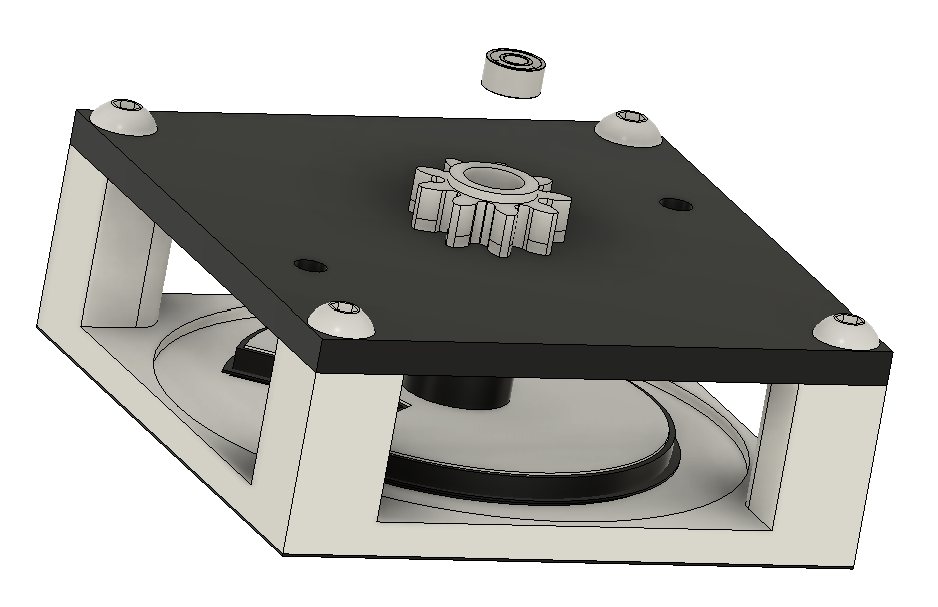
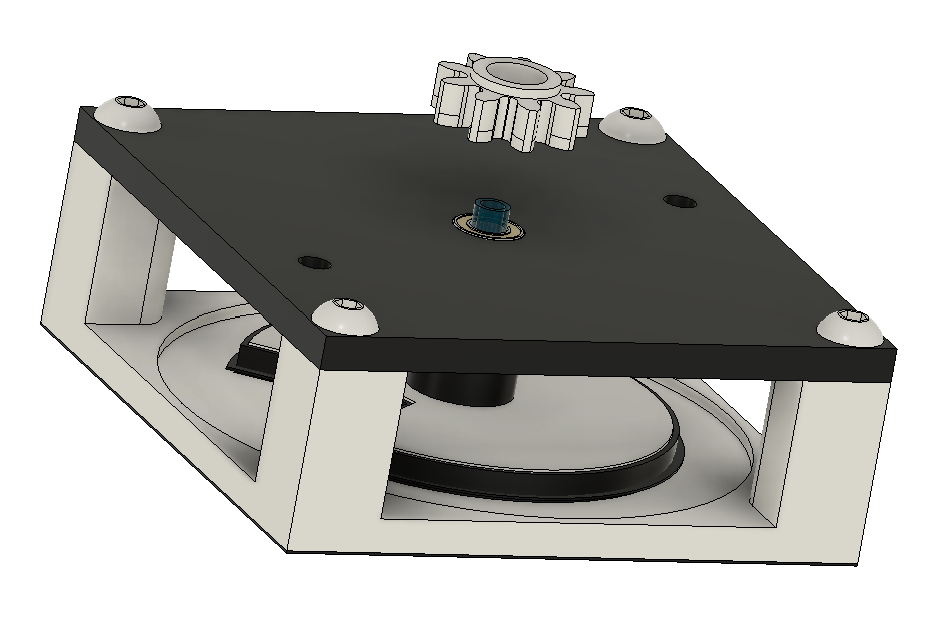
Duct Pressure Gauge: MakerWorld link, the filament colours, the Smooth plate and the LED strip step

Changed region(s): [[0.0311, 0.0593, 0.9646, 0.9489], [0.3112, 0.4152, 0.3734, 0.4448]]

diff --git a/docs/models/33-duct-pressure-gauge.md b/docs/models/33-duct-pressure-gauge.md
@@ -1,5 +1,7 @@
 # 33. Duct Pressure Gauge
 
+[📦 Download the printable model on MakerWorld](https://makerworld.com/en/models/3330434-boeing-737-overhead-duct-pressure-gauge)
+
 [← Back to model list](README.md)
 
 ---
@@ -55,13 +57,15 @@ The dial itself is lit separately, by two LED strips inside the housing - see [B
 | 1× | inner | White | the round dial behind the face, with the second UV-printed scale on it |
 | 1× | shielding outer+inner | Black | the ring wall between the two printed faces |
 | 1× | backlight | Black | the rear plate; carries the second MR63ZZ bearing |
-| 1× | gears cover | White | the bracket for the two servos |
+| 1× | gears cover | Black | the bracket for the two servos |
 | 1× | pipe gear (3 mm) | Transparent | 9 teeth, on the acrylic pipe; in the light path of the needle LED |
 | 1× | rod gear (2 mm) | Transparent | 9 teeth, on the acrylic rod; in the light path of the needle LED |
-| 2× | servo gear | White | 14 teeth, on the servo shafts |
-| 1× | L needle | White | on the acrylic pipe |
-| 1× | R needle | White | on the acrylic rod |
+| 2× | servo gear | Black | 14 teeth, on the servo shafts |
+| 1× | L needle | White + Black | on the acrylic pipe; the letter **L** is printed in black |
+| 1× | R needle | White + Black | on the acrylic rod; the letter **R** is printed in black |
 | 1× | needle cap | Black | covers the hub of the R needle |
+
+All the parts print on a **Smooth** PEI plate.
 
 ---
 
@@ -107,7 +111,7 @@ Two of the scales on that sheet belong to this gauge: the square **DUCT PRESS** 
 
 ### Scale
 
-The scale is lit by two LED strips inside the housing, shining through the white outer and inner parts from behind. They run on **12 V** taken from the backlighting of the Pneumatic Panel, so the gauge dims together with that panel - see [Power supply](../system-overview.md#power-supply).
+The scale is lit by two LED strips inside the housing, one on each side, shining through the white outer and inner parts from behind. They run on **12 V** taken from the backlighting of the Pneumatic Panel, so the gauge dims together with that panel - see [Power supply](../system-overview.md#power-supply).
 
 The two strips are not wired straight across that 12 V: an **820 Ω resistor** goes in series with the pair. The white parts pass far more light than the printed face of a panel does, so on the bare supply the scale burns out much brighter than the lettering around it. The resistor holds it back to the brightness of the rest of the overhead.
 
@@ -120,7 +124,7 @@ The two strips sit in parallel and the resistor goes in the lead feeding them, c
 The needles have a light of their own: a white 5 mm LED in the gears cover, between the two servos, shining up through the transparent gears and on into the acrylic pipe and the acrylic rod. It runs on **5 V** with a **150 Ω** resistor in series, and it lights both needles at once.
 
 > **Note**
-> The needle lighting works, but the effect is weak, exactly as on the other gauges of the overhead. White PLA does not carry light well over the length of a needle, so a needle glows rather than lights up.
+> The needle lighting works, but the effect is weak. White PLA does not carry light well over the length of a needle, so a needle glows rather than lights up. It is worth building - but do not expect the needles to stand out the way the scale does.
 
 ---
 
@@ -132,7 +136,7 @@ The gauge has four connections.
 |---|---|---|
 | L needle servo | 5 V | the control signal, **+5 V** and **GND**, all three from the pin headers at **pin 7** of the [RJ45 Direct](../pcb/rj45-direct.md) PCB on the **Pneumatic Panel** - socket **D2** on **Overhead_5** |
 | R needle servo | 5 V | the same three, from the pin headers at **pin 6** of that board |
-| Needle LED | 5 V | **+5 V** and **GND** from a **-** and **+** pin pair on the same board |
+| Needle LED | 5 V | **+5 V** and **GND** from the Pneumatic Panel, through a **150 Ω** resistor - see [Backlight](#backlight) |
 | Scale backlight | 12 V | the backlighting of the Pneumatic Panel, through an **820 Ω** resistor - see [Backlight](#backlight) |
 
 > **⚠ Both servo plugs have to be rewired**
@@ -198,74 +202,79 @@ Screw abbreviations used below: **DH** = dome head.
 </tbody>
 <tbody>
 <tr>
-<td width="55%"><b>8.</b> Screw the <b>backlight</b> part on with 4× DH M3×8.</td>
-<td align="center"><img src="../../images/panels/33-duct-pressure-step-08.png" alt="The backlight part screwed on with four M3x8 screws" width="380"></td>
+<td colspan="2"><b>8.</b> Fit the two <b>LED strips</b> inside the housing, one on each side, and bring their leads out. They have to go in before the backlight part closes the housing - see <a href="#backlight">Backlight</a>.</td>
 </tr>
 </tbody>
 <tbody>
 <tr>
-<td width="55%"><b>9.</b> Press the second <b>MR63ZZ</b> bearing into the backlight part.</td>
-<td align="center"><img src="../../images/panels/33-duct-pressure-step-09.png" alt="The second MR63ZZ bearing pressed into the backlight part" width="380"></td>
+<td width="55%"><b>9.</b> Screw the <b>backlight</b> part on with 4× DH M3×8.</td>
+<td align="center"><img src="../../images/panels/33-duct-pressure-step-09.png" alt="The backlight part screwed on with four M3x8 screws" width="380"></td>
 </tr>
 </tbody>
 <tbody>
 <tr>
-<td width="55%"><b>10.</b> Push the <b>acrylic pipe</b> through both bearings. If it will not go, warm it with a hair dryer to soften it slightly. I used a 20 mm length.</td>
-<td align="center"><img src="../../images/panels/33-duct-pressure-step-10.png" alt="The acrylic pipe pushed through both bearings" width="380"></td>
+<td width="55%"><b>10.</b> Press the second <b>MR63ZZ</b> bearing into the backlight part.</td>
+<td align="center"><img src="../../images/panels/33-duct-pressure-step-10.png" alt="The second MR63ZZ bearing pressed into the backlight part" width="380"></td>
 </tr>
 </tbody>
 <tbody>
 <tr>
-<td width="55%"><b>11.</b> From the front, glue the <b>L needle</b> onto the pipe with super glue.</td>
-<td align="center"><img src="../../images/panels/33-duct-pressure-step-11.png" alt="The L needle glued onto the acrylic pipe from the front" width="380"></td>
+<td width="55%"><b>11.</b> Push the <b>acrylic pipe</b> through both bearings. If it will not go, warm it with a hair dryer to soften it slightly. I used a 20 mm length.</td>
+<td align="center"><img src="../../images/panels/33-duct-pressure-step-11.png" alt="The acrylic pipe pushed through both bearings" width="380"></td>
 </tr>
 </tbody>
 <tbody>
 <tr>
-<td width="55%"><b>12.</b> From the back, glue the <b>pipe gear</b> - 9 teeth, 3 mm high - onto the acrylic pipe.</td>
-<td align="center"><img src="../../images/panels/33-duct-pressure-step-12.png" alt="The 3 mm pipe gear glued onto the acrylic pipe from the back" width="380"></td>
+<td width="55%"><b>12.</b> From the front, glue the <b>L needle</b> onto the pipe with super glue.</td>
+<td align="center"><img src="../../images/panels/33-duct-pressure-step-12.png" alt="The L needle glued onto the acrylic pipe from the front" width="380"></td>
 </tr>
 </tbody>
 <tbody>
 <tr>
-<td width="55%"><b>13.</b> Press the <b>MR52ZZ</b> bearing into the pipe gear.</td>
-<td align="center"><img src="../../images/panels/33-duct-pressure-step-13.png" alt="The MR52ZZ bearing pressed into the pipe gear" width="380"></td>
+<td width="55%"><b>13.</b> From the back, glue the <b>pipe gear</b> - 9 teeth, 3 mm high - onto the acrylic pipe.</td>
+<td align="center"><img src="../../images/panels/33-duct-pressure-step-13.png" alt="The 3 mm pipe gear glued onto the acrylic pipe from the back" width="380"></td>
 </tr>
 </tbody>
 <tbody>
 <tr>
-<td width="55%"><b>14.</b> Push the <b>acrylic rod</b> through the MR52ZZ bearing and on down the inside of the pipe. I used 27 mm, but it is safer to cut it to length once it is in place.</td>
-<td align="center"><img src="../../images/panels/33-duct-pressure-step-14.png" alt="The acrylic rod pushed through the bearing into the pipe" width="380"></td>
+<td width="55%"><b>14.</b> Press the <b>MR52ZZ</b> bearing into the pipe gear.</td>
+<td align="center"><img src="../../images/panels/33-duct-pressure-step-14.png" alt="The MR52ZZ bearing pressed into the pipe gear" width="380"></td>
 </tr>
 </tbody>
 <tbody>
 <tr>
-<td width="55%"><b>15.</b> From the front, glue the <b>R needle</b> onto the rod.</td>
-<td align="center"><img src="../../images/panels/33-duct-pressure-step-15.png" alt="The R needle glued onto the acrylic rod from the front" width="380"></td>
+<td width="55%"><b>15.</b> Push the <b>acrylic rod</b> through the MR52ZZ bearing and on down the inside of the pipe. I used 27 mm, but it is safer to cut it to length once it is in place.</td>
+<td align="center"><img src="../../images/panels/33-duct-pressure-step-15.png" alt="The acrylic rod pushed through the bearing into the pipe" width="380"></td>
 </tr>
 </tbody>
 <tbody>
 <tr>
-<td width="55%"><b>16.</b> Glue the black <b>needle cap</b> onto the R needle.</td>
-<td align="center"><img src="../../images/panels/33-duct-pressure-step-16.png" alt="The black cap glued onto the hub of the R needle" width="380"></td>
+<td width="55%"><b>16.</b> From the front, glue the <b>R needle</b> onto the rod.</td>
+<td align="center"><img src="../../images/panels/33-duct-pressure-step-16.png" alt="The R needle glued onto the acrylic rod from the front" width="380"></td>
 </tr>
 </tbody>
 <tbody>
 <tr>
-<td width="55%"><b>17.</b> Glue the <b>rod gear</b> - 9 teeth, 2 mm high - onto the acrylic rod.</td>
-<td align="center"><img src="../../images/panels/33-duct-pressure-step-17.png" alt="The 2 mm rod gear glued onto the acrylic rod" width="380"></td>
+<td width="55%"><b>17.</b> Glue the black <b>needle cap</b> onto the R needle.</td>
+<td align="center"><img src="../../images/panels/33-duct-pressure-step-17.png" alt="The black cap glued onto the hub of the R needle" width="380"></td>
 </tr>
 </tbody>
 <tbody>
 <tr>
-<td width="55%"><b>18.</b> Put the gears cover with its two servos in place and screw it down with 2× DH M3×5.</td>
-<td align="center"><img src="../../images/panels/33-duct-pressure-step-18.png" alt="The gears cover with both servos screwed onto the backlight part" width="380"></td>
+<td width="55%"><b>18.</b> Glue the <b>rod gear</b> - 9 teeth, 2 mm high - onto the acrylic rod.</td>
+<td align="center"><img src="../../images/panels/33-duct-pressure-step-18.png" alt="The 2 mm rod gear glued onto the acrylic rod" width="380"></td>
 </tr>
 </tbody>
 <tbody>
 <tr>
-<td width="55%"><b>19.</b> Push the white <b>LED</b> - the one with the 150 Ω resistor - into the hole between the two servos.</td>
-<td align="center"><img src="../../images/panels/33-duct-pressure-step-19.png" alt="The white LED pushed into the hole between the two servos" width="380"></td>
+<td width="55%"><b>19.</b> Put the gears cover with its two servos in place and screw it down with 2× DH M3×5.</td>
+<td align="center"><img src="../../images/panels/33-duct-pressure-step-19.png" alt="The gears cover with both servos screwed onto the backlight part" width="380"></td>
+</tr>
+</tbody>
+<tbody>
+<tr>
+<td width="55%"><b>20.</b> Push the white <b>LED</b> - the one with the 150 Ω resistor - into the hole between the two servos.</td>
+<td align="center"><img src="../../images/panels/33-duct-pressure-step-20.png" alt="The white LED pushed into the hole between the two servos" width="380"></td>
 </tr>
 </tbody>
 </table>

diff --git a/docs/models/README.md b/docs/models/README.md
@@ -81,7 +81,7 @@ These are not panels. The frame carries the whole overhead; the rest are compone
 <tr>
 <td><a href="33-duct-pressure-gauge.md"><img src="../../images/panels/33-duct-pressure-render-assembled.png" width="200"></a></td>
 <td>Duct Pressure Gauge</td>
-<td>🚧</td>
+<td><a href="https://makerworld.com/en/models/3330434-boeing-737-overhead-duct-pressure-gauge">Model</a></td>
 <td><a href="33-duct-pressure-gauge.md">Notes</a></td>
 </tr>
 </tbody>
